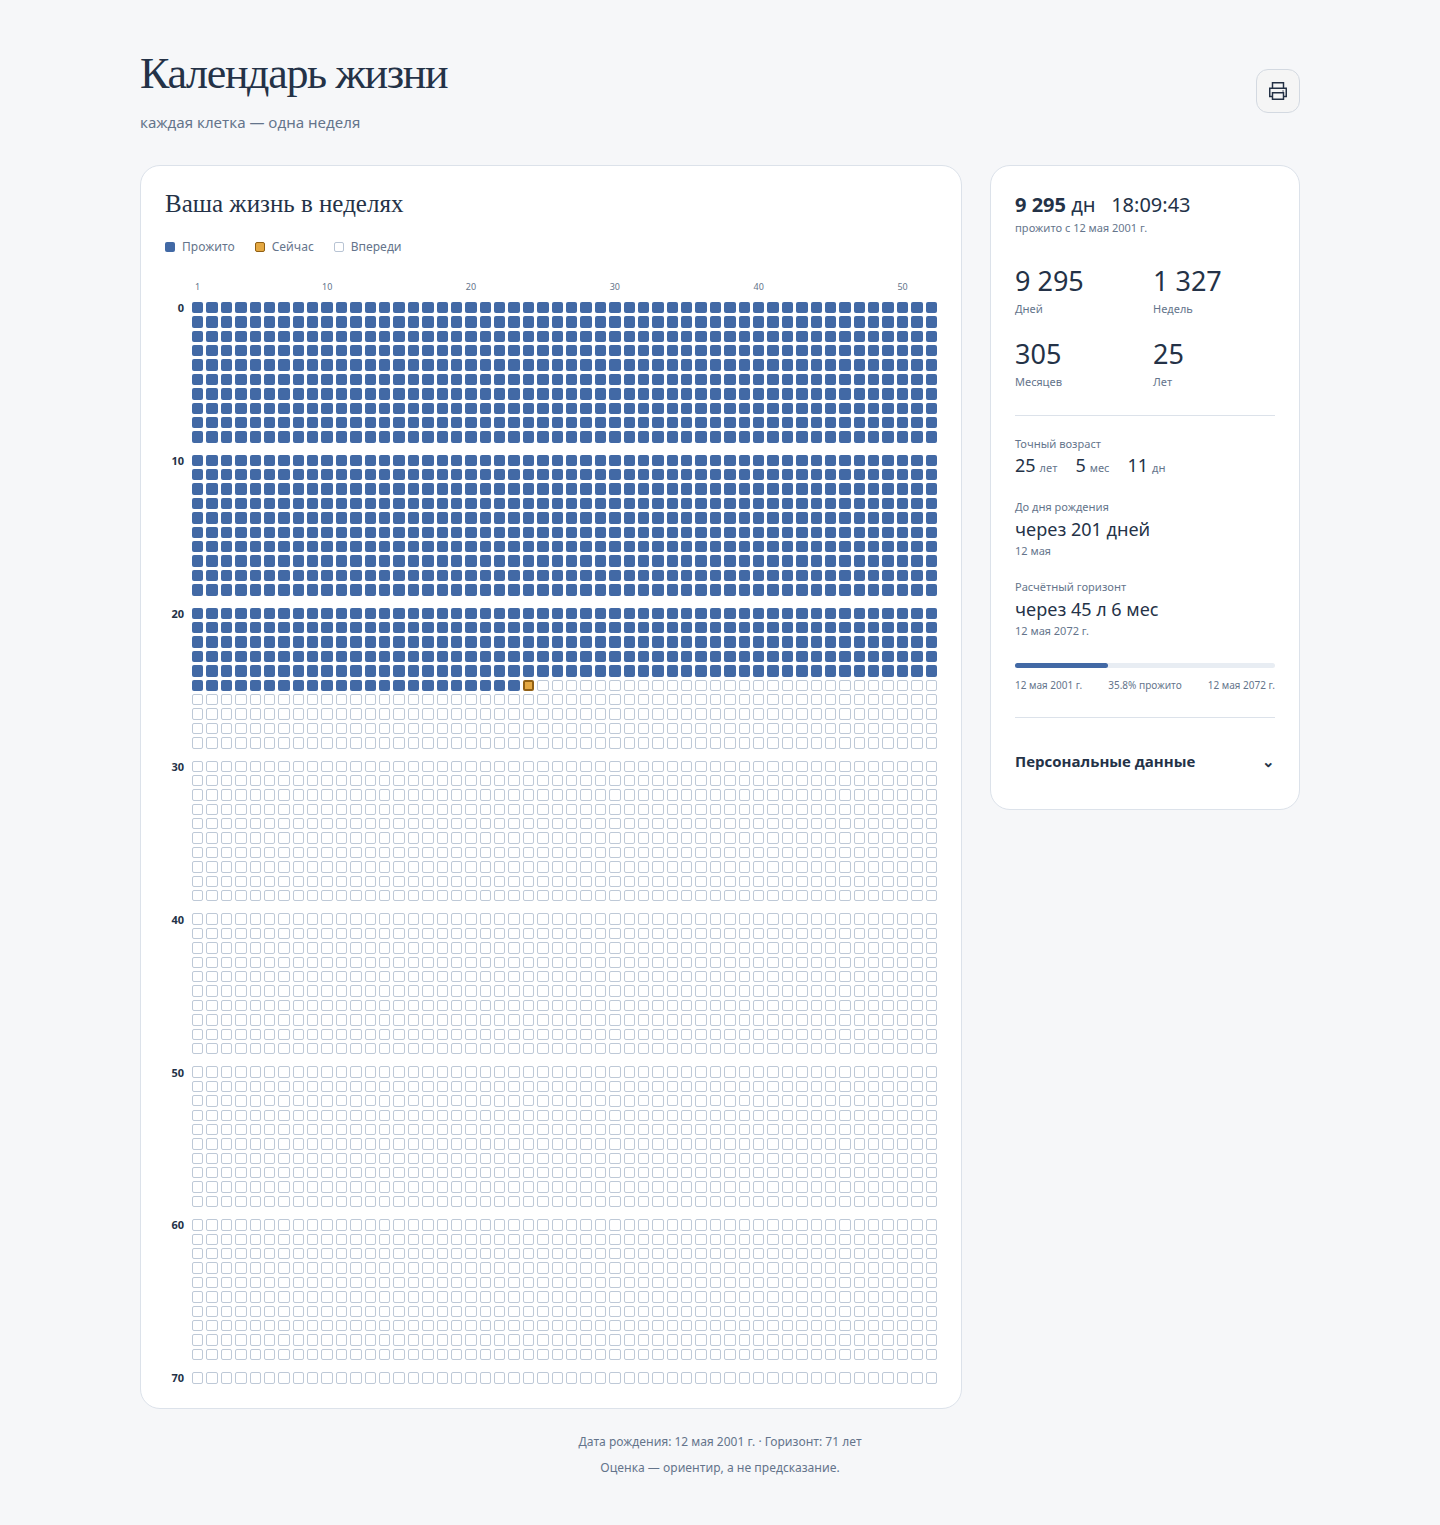
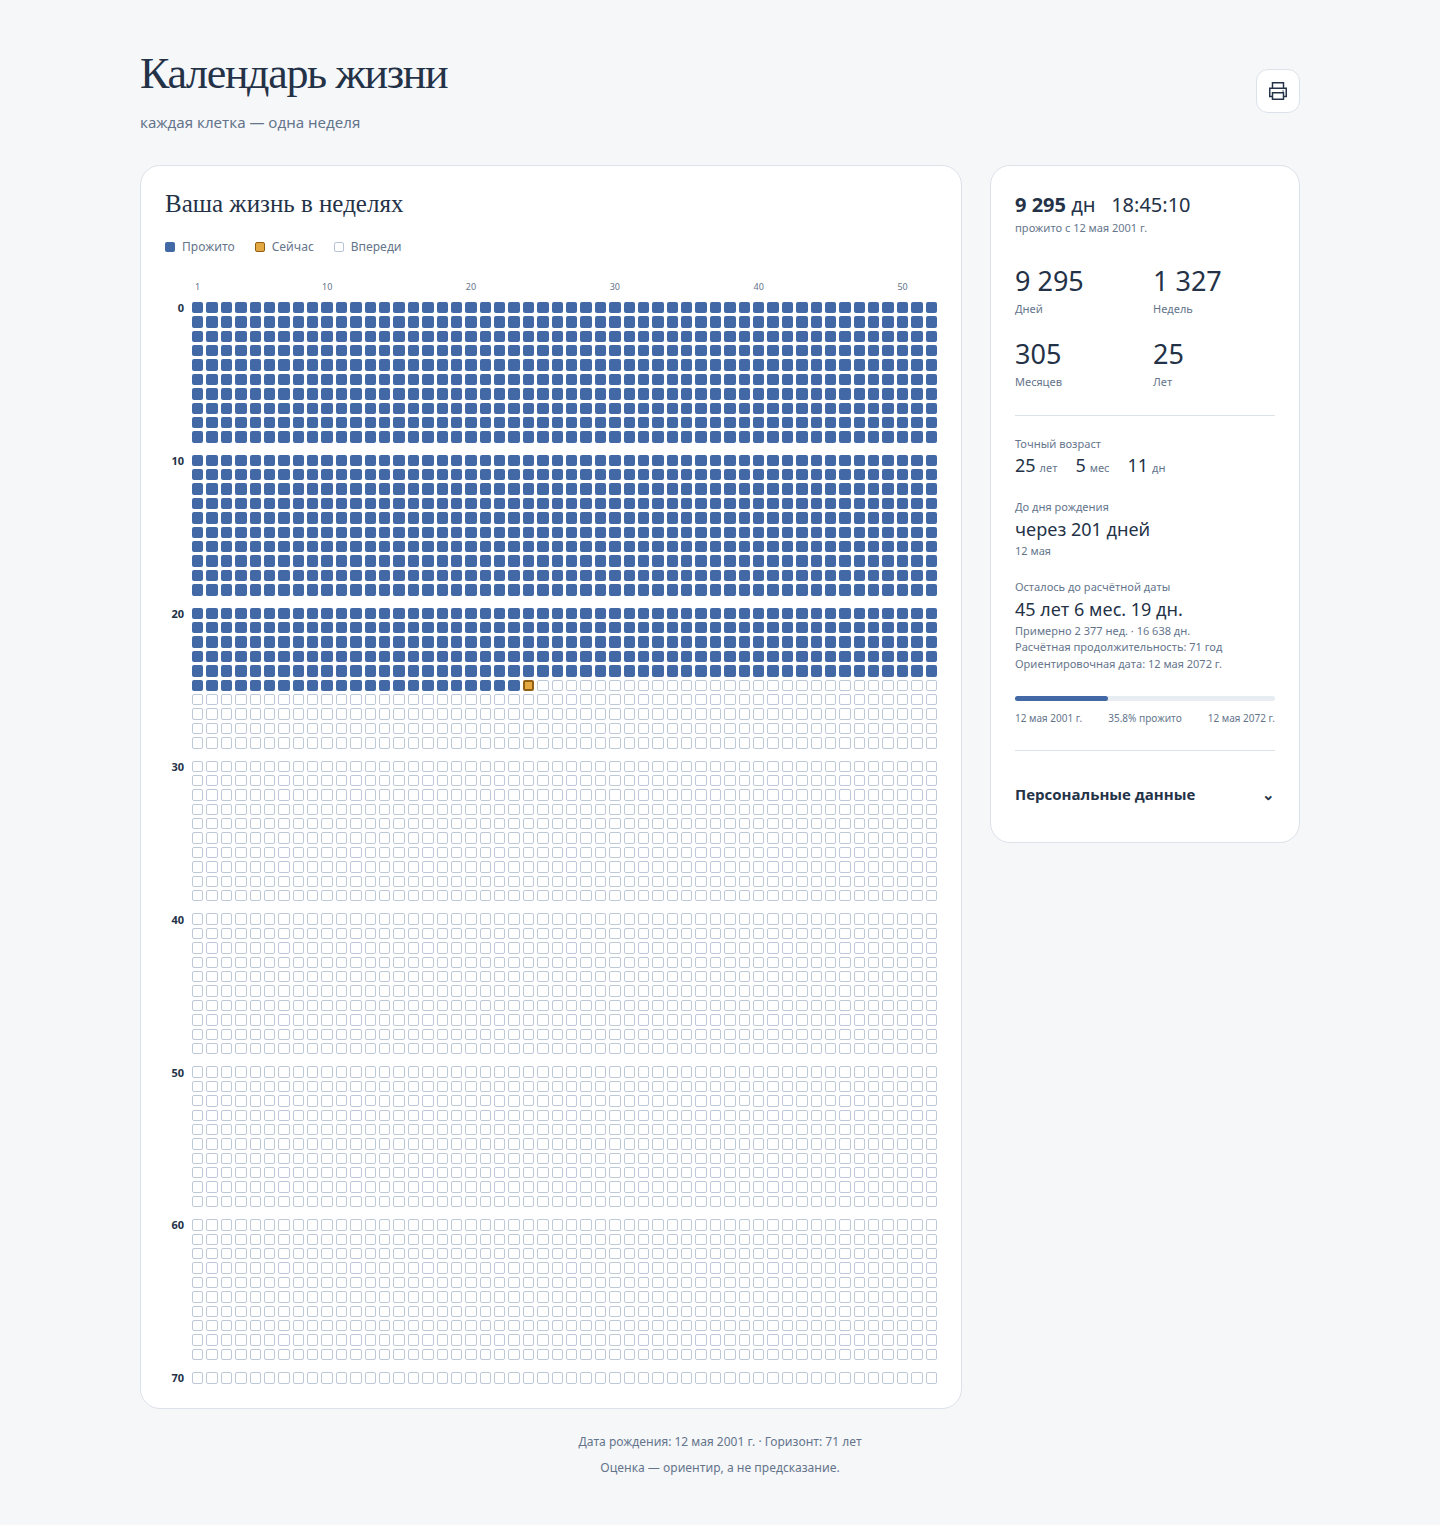
Show remaining lifetime and equalize calendar cell spacing

Changed region(s): [[0.6875, 0.3698, 0.875, 0.5239], [0.7812, 0.1233, 0.8125, 0.1541]]

diff --git a/app.js b/app.js
@@ -28,6 +28,8 @@
     iBdSub: document.getElementById('iBdSub'),
     iEndMain: document.getElementById('iEndMain'),
     iEndSub: document.getElementById('iEndSub'),
+    iRemainingWeeks: document.getElementById('iRemainingWeeks'),
+    iLifespan: document.getElementById('iLifespan'),
     progressFill: document.getElementById('progressFill'),
     progressLabel: document.getElementById('progressLabel'),
     birthLabel: document.getElementById('birthLabel'),
@@ -269,6 +271,7 @@
       nextBD,
       endDiff,
       endDelta,
+      remainingDays: Math.max(0, Math.round((startOfDay(endDate) - startOfDay(now)) / DAY_MS)),
       progressPct: (progress * 100).toFixed(1)
     };
   }
@@ -279,6 +282,11 @@
     refs.cH.textContent = pad(Math.floor(total / 3600) % 24);
     refs.cM.textContent = pad(Math.floor(total / 60) % 60);
     refs.cS.textContent = pad(total % 60);
+  }
+
+  function yearLabel(value) {
+    const form = new Intl.PluralRules('ru').select(value);
+    return form === 'one' ? 'год' : form === 'few' ? 'года' : 'лет';
   }
 
   function renderStats(stats) {
@@ -301,9 +309,13 @@
     refs.iBdSub.textContent = fmtDate(stats.nextBD, { day: 'numeric', month: 'long' });
 
     refs.iEndMain.textContent = stats.endDiff > 0
-      ? `через ${stats.endDelta.y} л ${stats.endDelta.m} мес`
-      : 'Срок наступил';
-    refs.iEndSub.textContent = fmtDate(stats.endDate, { day: 'numeric', month: 'long', year: 'numeric' });
+      ? `${stats.endDelta.y} ${yearLabel(stats.endDelta.y)} ${stats.endDelta.m} мес. ${stats.endDelta.d} дн.`
+      : 'Расчётная дата уже пройдена';
+    refs.iRemainingWeeks.textContent = stats.endDiff > 0
+      ? `Примерно ${(stats.remainingDays / 7).toLocaleString('ru', { maximumFractionDigits: 0 })} нед. · ${stats.remainingDays.toLocaleString('ru')} дн.`
+      : 'Остаток по этому расчёту — 0 дней';
+    refs.iLifespan.textContent = `Расчётная продолжительность: ${state.lifespan} ${yearLabel(state.lifespan)}`;
+    refs.iEndSub.textContent = `Ориентировочная дата: ${fmtDate(stats.endDate, { day: 'numeric', month: 'long', year: 'numeric' })}`;
 
     refs.progressFill.style.width = `${stats.progressPct}%`;
     refs.progressLabel.textContent = `${stats.progressPct}% прожито`;

diff --git a/styles.css b/styles.css
@@ -70,8 +70,10 @@ a { color:var(--accent); }
 .col-labels::before { content:''; }
 .col-label { text-align:center; font-size:9px; color:var(--muted); }
 .grid { display:grid; gap:var(--gap); }
+.year-row { position:relative; }
+.year-row::before { content:""; }
 .year-row.decade-gap { margin-top:9px; }
-.row-label { text-align:right; padding-right:5px; font-size:9px; color:var(--muted); line-height:1; }
+.row-label { position:absolute; left:0; width:24px; text-align:right; padding-right:5px; font-size:9px; color:var(--muted); line-height:1; }
 .row-label.decade { color:var(--text); font-weight:700; font-size:11px; }
 .week { aspect-ratio:1; border-radius:2px; min-width:0; border:1px solid transparent; }
 .week.past { background:var(--accent); }
@@ -122,6 +124,6 @@ footer { color:var(--muted); font-size:12px; margin-top:24px; text-align:center;
   .week.past,.legend-dot.past { background:#777 !important; border:1px solid #555; print-color-adjust:exact; -webkit-print-color-adjust:exact; }
   .week.future,.legend-dot.future { background:white !important; border:0.2mm solid #888; }
   .week.current,.legend-dot.current { background:white !important; border:0.6mm solid #000; }
-  .row-label,.row-label.decade { font-size:6pt; }
+  .row-label,.row-label.decade { width:5mm; font-size:6pt; }
   footer { display:none; }
 }

diff --git a/life_calendar.html b/life_calendar.html
@@ -60,8 +60,10 @@
       <div class="insight-sub"  id="iBdSub"></div>
     </div>
     <div class="stat">
-      <div class="insight-label">Расчётный горизонт</div>
+      <div class="insight-label">Осталось до расчётной даты</div>
       <div class="insight-main" id="iEndMain">—</div>
+      <div class="insight-sub" id="iRemainingWeeks"></div>
+      <div class="insight-sub" id="iLifespan"></div>
       <div class="insight-sub"  id="iEndSub"></div>
     </div>
   </div>

diff --git a/README.md b/README.md
@@ -18,6 +18,7 @@
 
 - 52 клетки на каждый год жизни, с увеличенным промежутком после десятилетия.
 - Прожитые недели заполнены, будущие пустые, текущая выделена контуром и цветом.
+- В боковой статистике показаны оставшиеся годы, месяцы и дни, приблизительное число недель, расчётная продолжительность и ориентировочная дата — на экране и при печати.
 - Подсказки с датами доступны мышью и клавиатурой.
 - Иконка принтера открывает печать браузера: выберите принтер или «Сохранить как PDF».
 - Печатное оформление рассчитано на один лист A4 в книжной ориентации при масштабе 100%, без браузерных колонтитулов. Боковая панель со статистикой и прогрессом печатается рядом с календарём. Поля ввода и кнопки скрыты; клетки различаются в чёрно-белой печати.
